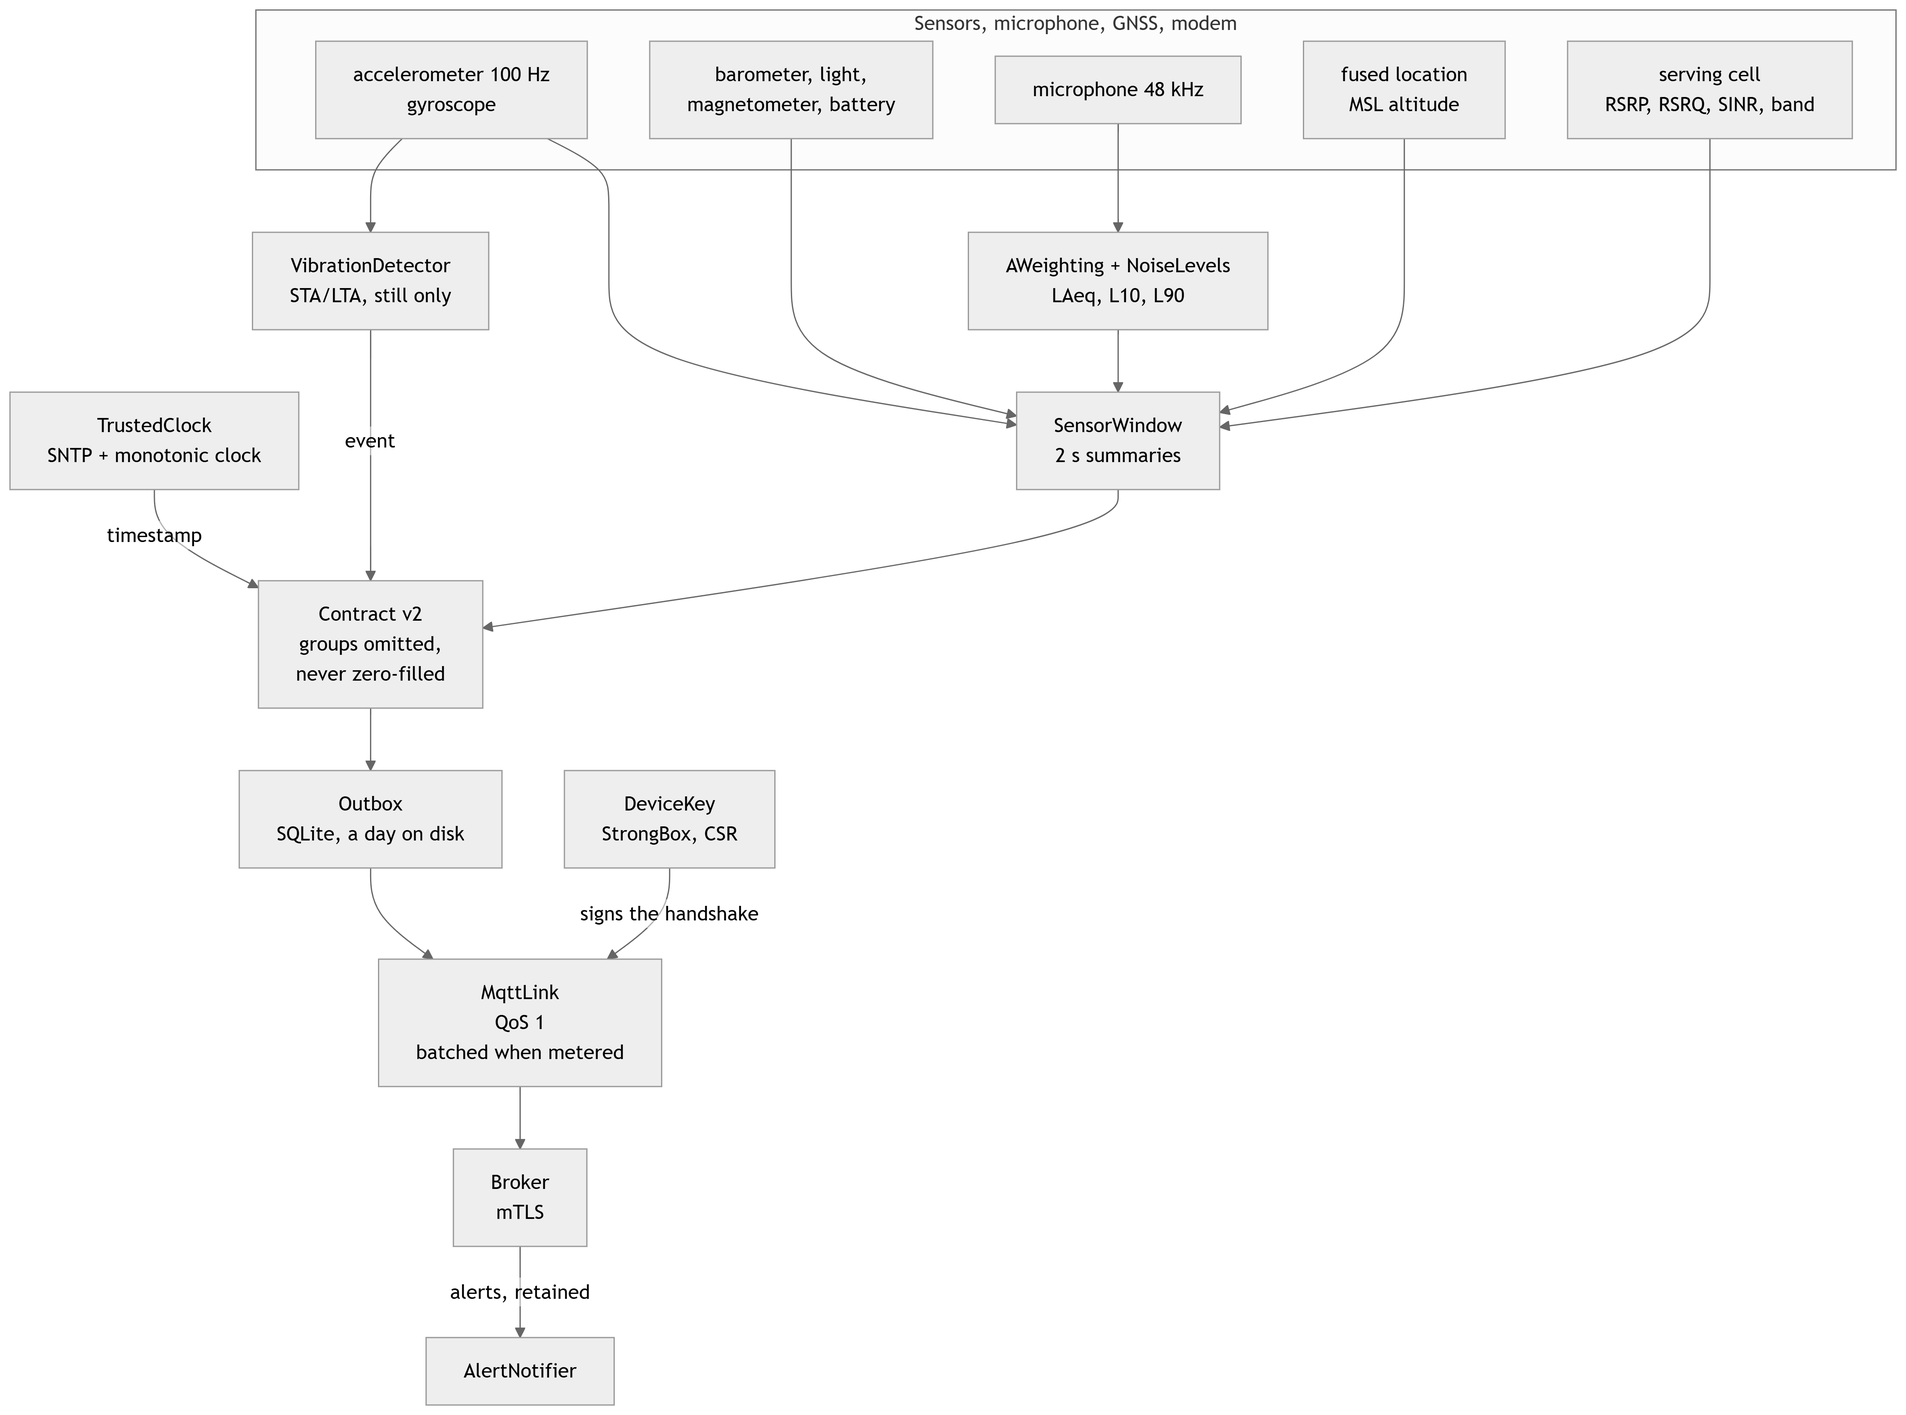
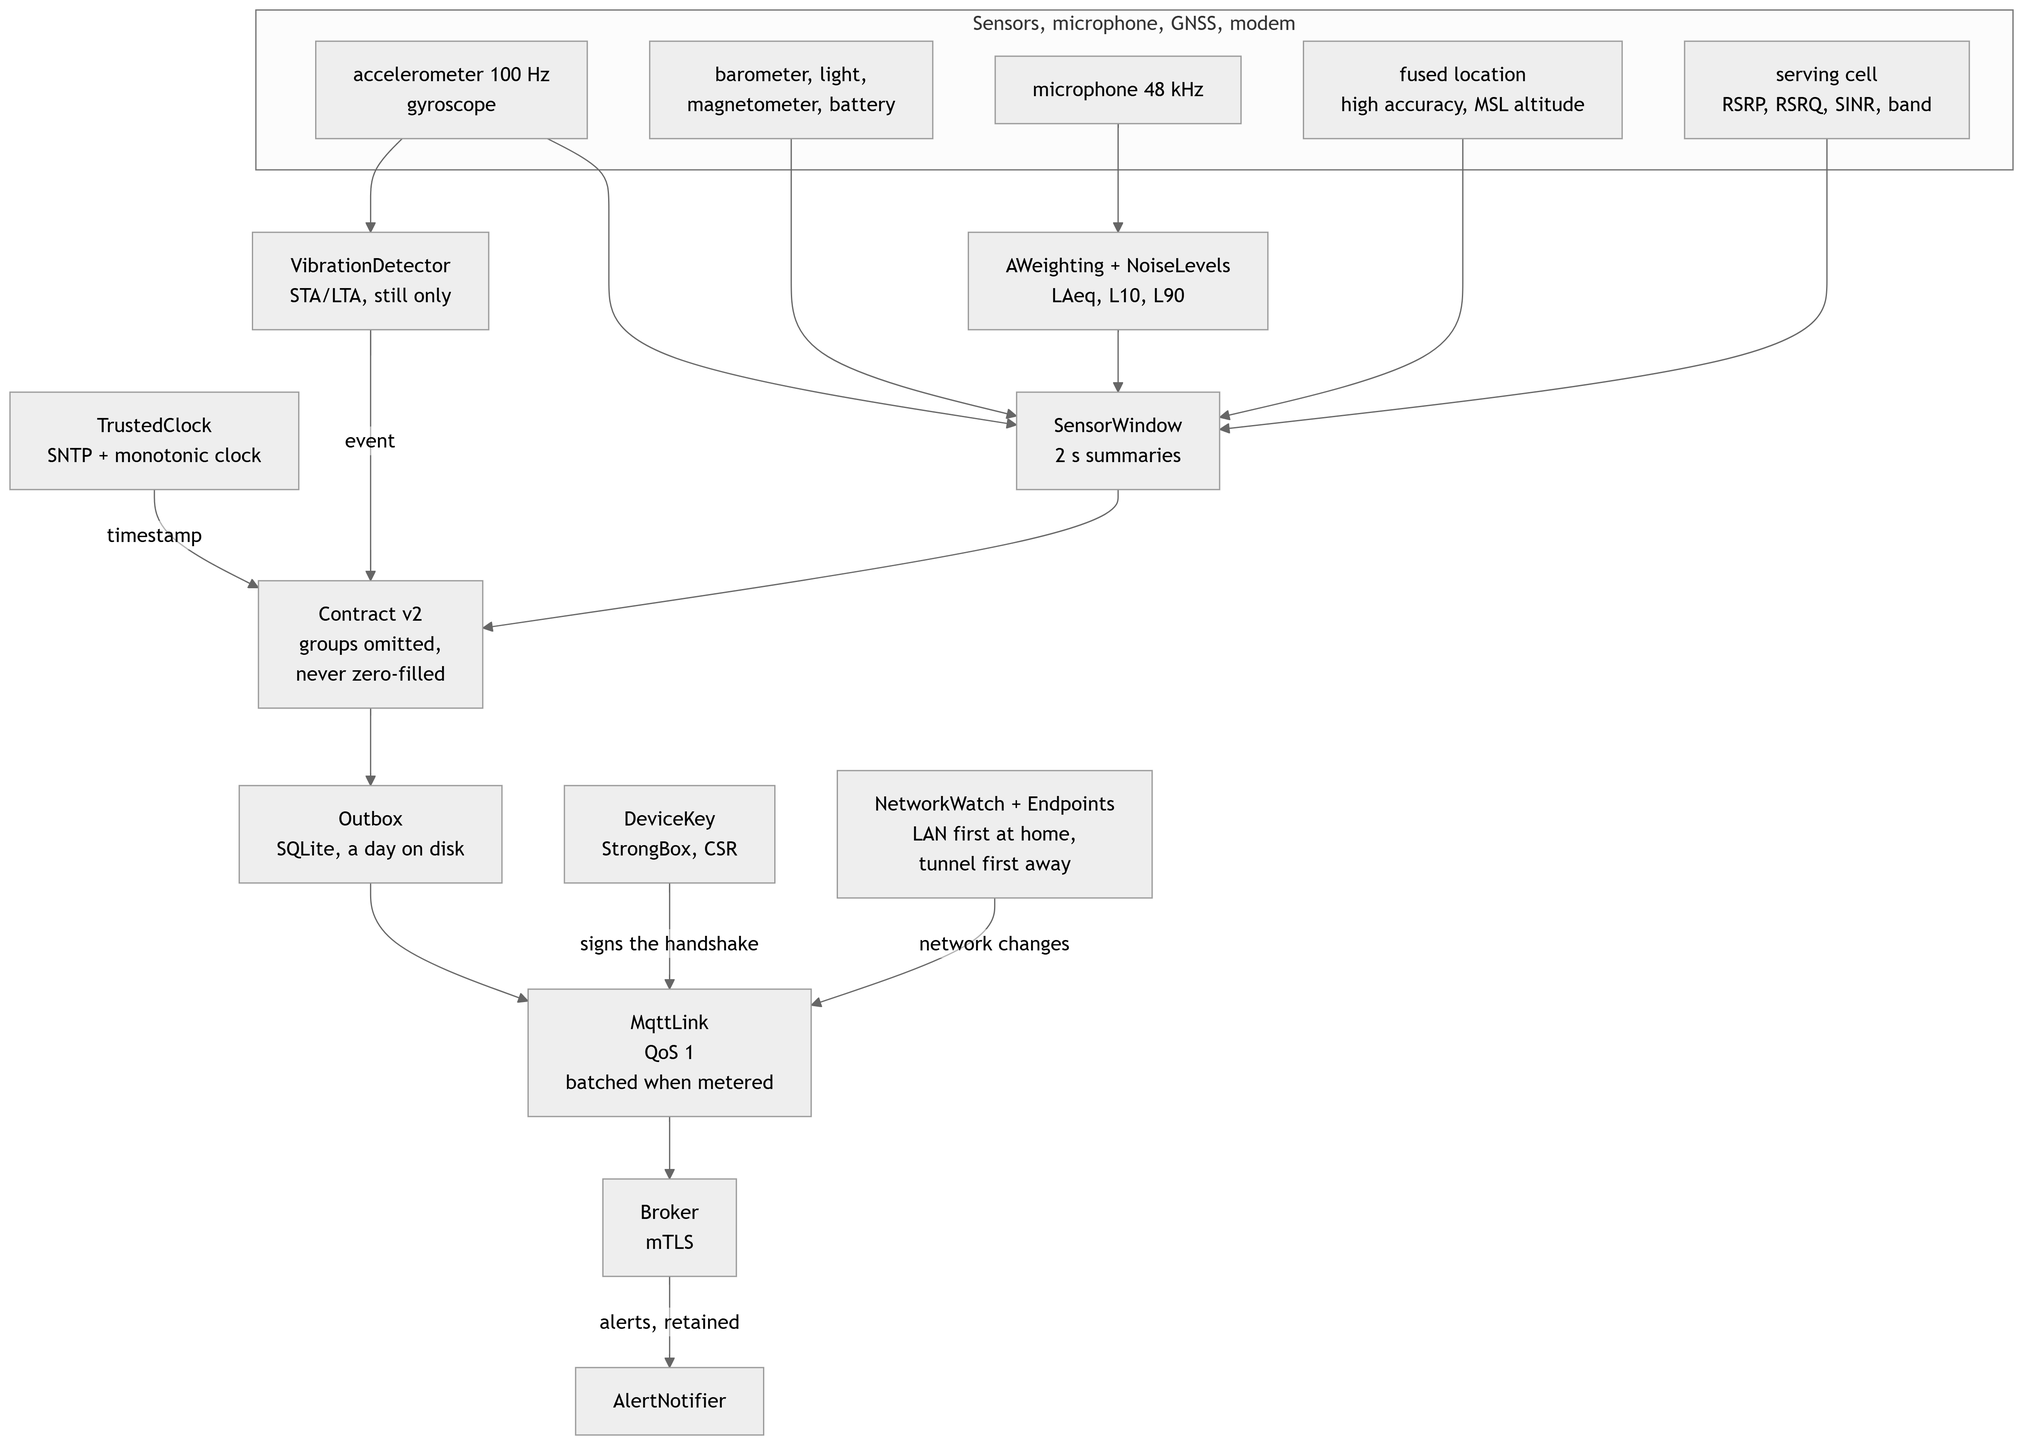
Bring the README and its diagrams in line with the system as built
Checked claim by claim against the code and the running stack.

- Topology: a node reaches two listeners, not one; the ESP32's firmware
  server is mutual TLS as well, and the diagram now says so. Ingestion is
  drawn both ways on the broker, since alerts leave through it, and Caddy
  as what serves the panel and forwards /api.
- Architecture: the diagram left out the layer that does the work.
  Ingestor and Alerter now stand between the adapters and the domain, all
  five ports are named, and the read side (routes, identity, queries) and
  the write side (MQTT, ingestion, alerts) run as two bands that do not
  cross each other.
- The phone node: location at high accuracy, and the network watch that
  decides where the link connects.
- Clock offsets re-measured over two hours of both nodes: median -6 ms
  for the ESP32, 5 ms for the phone.
- Running it: the simulator needs a one-day credential once the phone has
  enrolled, and the venv path on Linux and macOS.
- Status: every container can read every key, CA key included, listed as
  open until the certificate mounts are narrowed.
- Size, ~16,000 lines. Diagrams re-rendered for docs/media.

verify.sh: 7 passed, 0 failed, 0 skipped.

diff --git a/README.md b/README.md
@@ -21,14 +21,14 @@ https://github.com/user-attachments/assets/7cd61433-e8dd-42be-8adb-ff7d193a1d83
 | **The one idea** | The reading is the asset. A room can be measured again; the elapsed calendar time cannot, so every design decision protects the continuity of the record |
 | **Nodes** | ESP32 + DHT22 on a breadboard (temperature, humidity) · Galaxy S26 running a native app (pressure, light, A-weighted noise, motion and vibration events, heading, battery temperature, GNSS position, serving cell) |
 | **Stack** | Arduino C++ · Kotlin, no AndroidX · Mosquitto over mTLS · Python 3.12, FastAPI, psycopg3 · PostgreSQL 17 + TimescaleDB · React 19 + TypeScript + uPlot · Caddy |
-| **Size** | ~15,000 lines across firmware, app, backend, frontend, schema and infrastructure · 222 Python, 78 Kotlin and 14 panel tests, two sanitised firmware suites, 17 transport assertions |
+| **Size** | ~16,000 lines across firmware, app, backend, frontend, schema and infrastructure · 222 Python, 78 Kotlin and 14 panel tests, two sanitised firmware suites, 17 transport assertions |
 | **How to run it** | `cd infra && ./bootstrap.sh && ./make-certs.sh && docker compose up -d` |
 
 [Topology](#topology) · [Architecture](#architecture) · [The phone node](#the-phone-node) · [Why the timestamps are hard](#why-the-timestamps-are-hard) · [Security](#security) · [The record](#the-record) · [The panel](#the-panel) · [Running it](#running-it) · [Verifying](#verifying) · [Layout](#layout) · [Status](#status) · [Licence](#licence)
 
 ## Topology
 
-Nothing crosses the network unauthenticated. The only listener a node can reach is the broker's mTLS port; the plaintext MQTT port does not exist. Each node may write only to its own topic, and the ESP32 and the phone speak different contract versions on different topic trees.
+Nothing crosses the network unauthenticated. A node reaches two listeners, both mutual TLS: the broker, and for the ESP32's updates the firmware server. The plaintext MQTT port does not exist, the API is not published, and the browser's only way in is Caddy. Each node may write only to its own topic, and the ESP32 and the phone speak different contract versions on different topic trees.
 
 ```mermaid
 flowchart TB
@@ -51,14 +51,14 @@ flowchart TB
     end
 
     subgraph host["Docker host"]
-        WEB["Caddy<br/>8444 HTTPS"]
+        WEB["Caddy<br/>8444 HTTPS, the panel"]
         BRK["Mosquitto<br/>8883 mTLS only"]
-        FW["nginx<br/>8443 OTA images"]
+        FW["nginx<br/>8443 mTLS, OTA images"]
         API["FastAPI<br/>8000, not published"]
-        ING["ingest<br/>Python"]
+        ING["ingest<br/>readings in, alerts out"]
         DB[("PostgreSQL 17<br/>TimescaleDB")]
-        WEB --> API
-        BRK --> ING
+        WEB -->|"/api"| API
+        BRK <--> ING
         BRK ~~~ FW
         API --> DB
         ING --> DB
@@ -69,68 +69,75 @@ flowchart TB
     APP -.->|"mobile data, batched"| TUN
     TUN -.->|"same mTLS stream"| BRK
     ESP -->|"MQTT v1, Wi-Fi"| BRK
-    ESP -->|"OTA, HTTPS"| FW
+    ESP -->|"OTA, mTLS"| FW
 ```
 
-Topics are `psychron/v1/esp32-01/reading`, and `psychron/v2/phone-01/sample` and `/event`. One message flows the other way: ingestion publishes alerts on `psychron/alerts/`, retained, and only the phone may read them. Both nodes and the host set their clocks from the NTP pool, so every timestamp in the system is measured against one standard. Measured as arrival minus the node's own stamp, to the millisecond: median −1.8 ms for the ESP32, 23 ms for the phone.
+Topics are `psychron/v1/esp32-01/reading`, and `psychron/v2/phone-01/sample` and `/event`. One message flows the other way: ingestion publishes alerts on `psychron/alerts/`, retained, and only the phone may read them. Both nodes and the host set their clocks from the NTP pool, so every timestamp in the system is measured against one standard. Measured as arrival minus the node's own stamp, to the millisecond, over two hours of both nodes reporting: median −6 ms for the ESP32, 5 ms for the phone.
 
 ## Architecture
 
-Hexagonal, and not as decoration: the domain holds the parsing, the psychrometrics and the identity rules, and it imports nothing from FastAPI, psycopg or paho. Every adapter is replaceable because the core never learned its name.
+Hexagonal, and not as decoration: the domain holds the parsing, the timestamp rule, the psychrometrics, the weather and alert rules and the identity rules, and it imports nothing from FastAPI, psycopg or paho. Every adapter is replaceable because the core never learned its name.
 
-Dotted edges are the ports — `TelemetrySource`, `ReadingRepository`, `Authenticator`. Swapping MQTT for anything else, or the local identity provider for an external one, means writing one class and changing no route.
+Two use cases stand between the adapters and the domain. `Ingestor` turns a message into a stored record: it hands the payload to its contract's parser, places it in time and writes it. `Alerter` reads what the record says, applies the rules and announces what changed. Dotted edges are the ports they and the routes speak through — `TelemetrySource`, `ReadingRepository`, `AlertStore`, `AlertSink`, `Authenticator`. Swapping MQTT for anything else, or the local identity provider for an external one, means writing one class and changing no route. The panel's reads go straight to `ReadQueries`: a bounded query shaped for a chart has no business passing through the rules that guard the write path.
 
 The two contracts share one rule for time. Contract v1 (the ESP32's readings) and contract v2 (the phone's window summaries) are parsed separately, but both hand their envelope to `resolve_instant`, so a second node type got the timestamp logic by construction instead of a copy of it that drifts.
 
-Alerts are a use case of their own beside ingestion: every 30 seconds the rules read what the record says through `AlertStore`, decide with separate raise and clear levels, and announce each transition through `AlertSink`, which is the same MQTT connection pointed the other way.
+Alerts run beside ingestion rather than inside it: every 30 seconds the rules read what the record says through `AlertStore`, decide with separate raise and clear levels, and announce each transition through `AlertSink`, which is the same MQTT connection pointed the other way.
 
 ```mermaid
 flowchart LR
     subgraph driving["Driving adapters"]
-        CLI["CLI, admin, provisioning"]
+        HTTP["FastAPI routes<br/>panel, phone, live sockets"]
+        CLI["admin CLI<br/>invitations, access"]
         MQTT["MqttTelemetrySource<br/>paho, mTLS<br/>v1 and v2 topics"]
         TICK["alert loop<br/>every 30 s"]
-        HTTP["FastAPI routes<br/>panel, phone, live sockets"]
+    end
+
+    subgraph cases["Use cases"]
+        ING["Ingestor<br/>parse, place, store"]
+        ALT["Alerter<br/>observe, decide, announce"]
     end
 
     subgraph core["Domain — imports no framework"]
+        WEA["weather<br/>sea level, Zambretti"]
+        PSY["psychrometrics<br/>dew point, VPD, heat index"]
+        IDN["identity<br/>lockout, invitations, TOTP"]
         TEL["telemetry<br/>contract v1, boot anchors"]
         SMP["samples, events<br/>contract v2, closed schema"]
         CLK["resolve_instant<br/>one timestamp rule for all"]
         ALR["alerts<br/>rules with hysteresis"]
-        WEA["weather<br/>sea level, Zambretti"]
-        PSY["psychrometrics<br/>dew point, VPD, heat index"]
-        IDN["identity<br/>lockout, invitations, TOTP"]
     end
 
     subgraph out["Driven adapters"]
+        RQ["ReadQueries<br/>bucket ladders, last fix<br/>streaming export"]
+        IDP["PostgresIdentity<br/>Argon2id + TOTP"]
         PG["PostgresReadingRepository<br/>reading, sample, event"]
         AST["PostgresAlertStore<br/>alert"]
         PUB["MQTT publish<br/>psychron/alerts/, retained"]
-        IDP["PostgresIdentity<br/>Argon2id + TOTP"]
-        RQ["ReadQueries<br/>bucket ladders<br/>streaming export"]
     end
 
     DB[("PostgreSQL 17<br/>TimescaleDB")]
 
-    CLI --> TEL
-    MQTT -.->|"TelemetrySource"| TEL
-    MQTT -.->|"TelemetrySource"| SMP
+    HTTP ----> RQ
+    HTTP ---> WEA
+    HTTP ---> PSY
+    HTTP -..->|"Authenticator"| IDN
+    CLI ---> IDN
+    IDN ---> IDP
+    MQTT -.->|"TelemetrySource"| ING
+    ING --> TEL
+    ING --> SMP
     TEL --> CLK
     SMP --> CLK
-    CLK -.->|"ReadingRepository"| PG
-    TICK --> ALR
-    ALR -.->|"AlertStore"| AST
-    ALR -.->|"AlertSink"| PUB
-    HTTP --> WEA
-    HTTP --> PSY
-    HTTP -.->|"Authenticator"| IDN
-    HTTP --> RQ
-    IDN --> IDP
+    ING -...->|"ReadingRepository"| PG
+    TICK --> ALT
+    ALT --> ALR
+    ALT -...->|"AlertStore"| AST
+    ALT -...->|"AlertSink"| PUB
+    RQ --> DB
+    IDP --> DB
     PG --> DB
     AST --> DB
-    IDP --> DB
-    RQ --> DB
 ```
 
 ## The phone node
@@ -145,7 +152,7 @@ flowchart TB
         IMU["accelerometer 100 Hz<br/>gyroscope"]
         ENV["barometer, light,<br/>magnetometer, battery"]
         MIC["microphone 48 kHz"]
-        GEO["fused location<br/>MSL altitude"]
+        GEO["fused location<br/>high accuracy, MSL altitude"]
         RAD["serving cell<br/>RSRP, RSRQ, SINR, band"]
     end
 
@@ -155,6 +162,7 @@ flowchart TB
     CON["Contract v2<br/>groups omitted,<br/>never zero-filled"]
     BOX["Outbox<br/>SQLite, a day on disk"]
     KEY["DeviceKey<br/>StrongBox, CSR"]
+    NET["NetworkWatch + Endpoints<br/>LAN first at home,<br/>tunnel first away"]
     LNK["MqttLink<br/>QoS 1<br/>batched when metered"]
     BRK["Broker<br/>mTLS"]
     NTF["AlertNotifier"]
@@ -172,17 +180,19 @@ flowchart TB
     CON --> BOX
     BOX --> LNK
     KEY -->|"signs the handshake"| LNK
+    NET -->|"network changes"| LNK
     LNK --> BRK
     BRK -->|"alerts, retained"| NTF
 ```
 
 - **Its key never leaves the hardware.** The node generates a P-256 key in StrongBox (the TEE on phones without one) and sends only a signing request; the host verifies it with `openssl req -verify` before the CA signs it. The key the phone held as a file before enrolling is revoked, and the broker refuses it.
+- **Where it is, and how sure.** Location at high accuracy from the platform's own fused provider, with GNSS altitude converted to mean sea level on the device. A window carries a fix only while it is under ten seconds old; the screen keeps an older one on show, with its age.
 - **Audio never leaves the phone.** Each window's PCM is reduced in memory to a handful of levels and discarded: RMS and peak, and A-weighted LAeq, LAmax, L10 and L90 through a filter checked against the IEC 61672 table. Relative to full scale, not dB SPL, unless a measured calibration offset is configured.
 - **The record survives the app.** Messages wait in SQLite, a day's worth, and are deleted only after the broker acknowledges them. A kill, a reboot or an update overnight costs latency, not windows.
 - **Mobile data is spent carefully.** On a metered network messages leave in batches every 30 seconds, so the modem can idle between them instead of holding its most expensive state all day. With a tunnel address provisioned, the node keeps publishing away from home — see [docs/REMOTE-NODES.md](docs/REMOTE-NODES.md).
 - **Vibration is an event, not a column.** A classic seismic trigger — short-term over long-term energy — runs on the raw accelerometer, at the fastest rate the phone grants (100 Hz on the S26, which refuses 200 without a special permission), only while the gyroscope says the phone has been still, and reports each event's peak acceleration, duration and pitch. The background it compares against learns only while the phone lies still, so carrying it about does not deafen it, and a knock on the table it lies on is enough to raise an event.
 - **Every tile says why it is blank.** Location off in the phone's settings, a fix that is half a minute old, a detector paused because the phone is in a hand, a sensor the phone refused: each is written on the screen, because a dash with no reason reads as a broken sensor.
-- **Its own clock.** Android sets the wall clock from the mobile network, measured here at 475 ms ahead of NTP. The app asks the NTP pool itself, keeps the fastest of four exchanges, and carries that time forward on the monotonic clock, so a network time step can never move a window.
+- **Its own clock.** Android sets the wall clock from the mobile network, measured here anywhere from 50 to 475 ms ahead of NTP. The app asks the NTP pool itself, keeps the fastest of four exchanges, and carries that time forward on the monotonic clock, so a network time step can never move a window.
 - **The screen shows the literal message.** Byte for byte what went on the wire, coloured but not reformatted, because "only summaries leave the device" is a claim and the message is the evidence.
 
 ## Why the timestamps are hard
@@ -322,7 +332,7 @@ The panel is then on `https://localhost:8444`. The admin and provisioning tools
 run on the host rather than in a container, so install the backend once:
 
 ```bash
-python -m venv backend/.venv && backend/.venv/Scripts/pip install -e "backend[dev]"
+python -m venv backend/.venv && backend/.venv/Scripts/pip install -e "backend[dev]"   # bin/ on Linux and macOS
 ```
 
 Create the first account — whoever enrols first becomes the owner. The command
@@ -346,7 +356,7 @@ cd android && ./gradlew installDebug
 cd ../infra && ./provision-phone.sh
 ```
 
-Optional settings in `.env`: `PSYCHRON_STATION_ELEVATION_M`, used for sea-level pressure when the phone has no confident GNSS altitude, and `PSYCHRON_PHONE_SPL_OFFSET_DB`, a sound level meter's dB(A) minus the phone's LAeq over the same steady noise. Without it, noise stays relative and the panel says so. The simulator speaks contract v2 with every group and event for anyone without the phone: `python -m psychron.simulate`.
+Optional settings in `.env`: `PSYCHRON_STATION_ELEVATION_M`, used for sea-level pressure when the phone has no confident GNSS altitude, and `PSYCHRON_PHONE_SPL_OFFSET_DB`, a sound level meter's dB(A) minus the phone's LAeq over the same steady noise. Without it, noise stays relative and the panel says so. The simulator speaks contract v2 with every group and event for anyone without the phone: `python -m psychron.simulate`. Once a phone has enrolled the host holds no key for it, so the simulator speaks as it with a one-day credential from `infra/ephemeral-cert.sh`, passed with `--cert-dir`.
 
 ## Verifying
 
@@ -402,6 +412,7 @@ Open, honestly:
 - **Noise is uncalibrated until someone calibrates it.** The A-weighting is checked against the standard; the microphone's absolute gain is not, and needs a sound level meter once per phone.
 - **The vibration trigger is not a seismometer.** STA/LTA on a phone lying still catches doors, footsteps and machinery two rooms away; telling an earthquake from a lorry would take several phones agreeing, which one phone cannot do.
 - **The outlook is a rule of thumb.** Zambretti's 1915 formulas, without wind or season, from a sea-level pressure only as good as the altitude it was reduced with.
+- **Every container can read every key.** The compose stack mounts the whole certificate directory, CA key included, into the broker, ingestion, web and firmware server, where each needs only its own certificate and key and the CA's certificate. Narrowing the mounts means moving the transport checks out of the broker's container first, since they run their probes from inside it.
 - **The revocation list is read at start.** Revoking a certificate takes effect when the broker restarts, which the script says, rather than the moment it is revoked.
 - **No OTA rollback.** The image is verified before it is committed, but the Arduino bootloader carries no rollback machinery; a firmware that boots and then misbehaves needs the cable.
 - **Forecasting is not implemented.** The panel shows progress toward the fourteen days of history a daily-cycle model would need, and says so rather than drawing a line through three hours of data.
